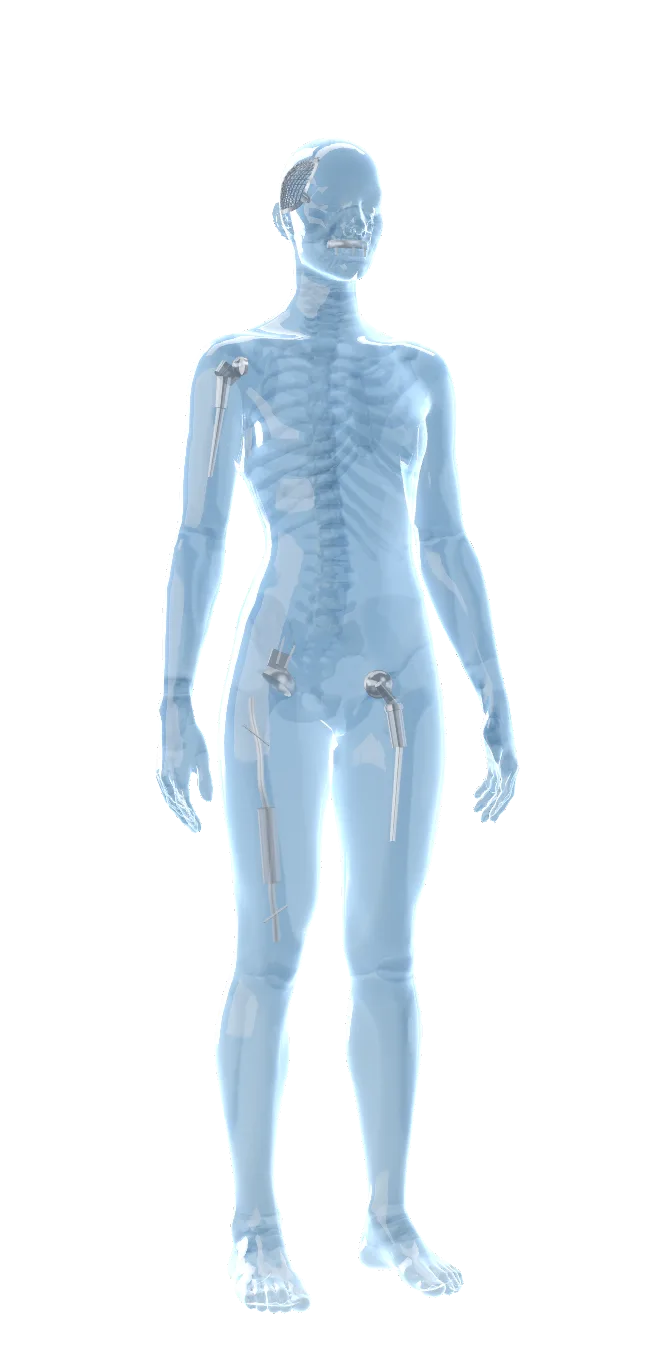
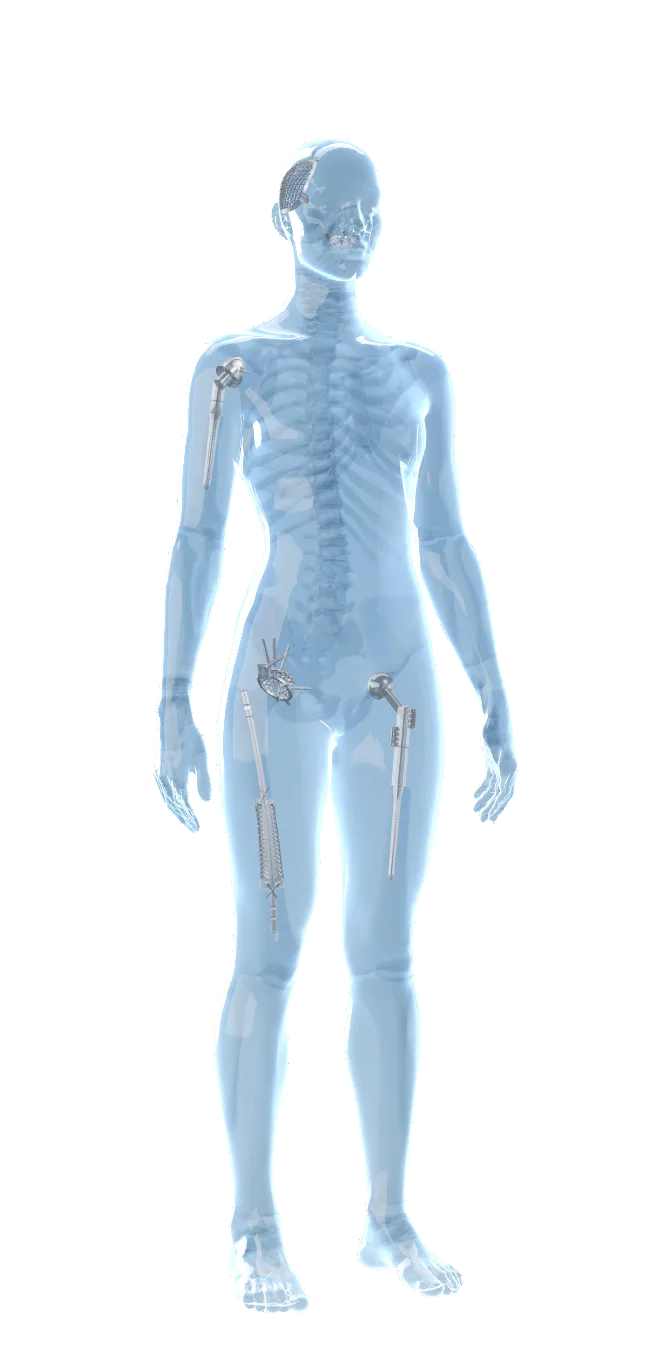
Recapture the full-body fallback and log the implant corrections

diff --git a/docs/landing/BITACORA.md b/docs/landing/BITACORA.md
@@ -226,3 +226,35 @@ Memoria compartida entre las fases de la landing: cada fase deja acá qué hizo,
 - La captura de respaldo `public/img/cuerpo-entero.webp` muestra las primitivas viejas: rehacerla con el procedimiento de la fase 3 (entrada a 1440 × 900, dpr 1,5).
 - Si se quiere el inserto del hombro en blanco o la base de la glenosfera mate, el contrato tendría que admitir más de un acabado por pieza (submallas `_pulido` / `_trabecular`).
 - `CLAUDE.md` sigue desactualizado (fases anteriores) y ahora además: `implantes-recorrido.glb` y `cuerpo.glb` en `public/modelos/`.
+
+---
+
+## Fase 4 · Correcciones del verificador (2026-10-30)
+
+**Commits:** `ae2d21d` Keep the acetabular screws inside the pelvis and perforate the cup face · `1fbd558` Correct the intercalar, endoprosthesis, shoulder and maxillary implants · `14f5c0a` Frame the maxillary stop closer so the implant reads · y el commit de esta entrada (respaldo `cuerpo-entero.webp` y docs).
+
+**Qué se corrigió, en el orden del verificador.**
+1. **Tornillos acetabulares dentro del hueso.** Ya no hay ángulos ni largos fijos: para cada tornillo se busca, en un cono alrededor de su dirección, la que entra más largo sin salir del coxal (puntos cada 2 mm, del lado de adentro de la superficie más cercana con 0,8 mm de margen), de 20 a 55 mm, separados al menos 20° (`buscar_tornillo`, `dentro_del_hueso`). Quedaron ocho en la copa (cuatro hacia el ilíaco y cuatro hacia abajo, al isquion y al pubis, como en la imagen del caso) y uno en el ala. Las vistas `atras` y `frente` ya no muestran tornillos sueltos.
+2. **Clavo al ras del trocánter.** La entrada sale de un rayo desde el canal hacia arriba, donde el clavo sale del hueso (3 mm adentro): 0,887 m. Ya no asoma.
+3. **Maxilar legible.** La toma de la parada en `camara.ts` se cerró (`vis` de 150 a 82 unidades, objetivo centrado en la pieza, azimut −0,42): pasó de cerca del 8 % a cerca del 14 % del ancho de la escena. La placa tiene más cuerpo (eslabones de 2,5 mm de radio y 1,8 mm de espesor, barras de 1,9 mm) y postes de Ø4,2 mm.
+4. **Acetábulo como en la foto.** Además del abanico hacia abajo (punto 1), la cara interna es una media esfera calada con agujeros chicos, sobre la capa trabecular de poros grandes: ya no es lisa ni espejada. El ala se inclina hasta apoyar en el ilíaco.
+5. **Intercalar con la forma del caso.** Se ensancha en los extremos que apoyan en el hueso (16 % el distal, hacia la metáfisis; 8 % el proximal), tiene zonas macizas (cuatro filas en cada extremo y una banda por delante y afuera, la de los alojamientos) y porosas, y el clavo tiene una leve curva anterior (3 mm) y agujeros de bloqueo (uno oblongo y uno redondo arriba, dos abajo). La posición en la diáfisis no cambió.
+6. **Sin rendijas.** El tramo de fémur que se borra es 3 mm más corto de cada lado (el hueso queda adentro de los extremos del intercalar) y el fémur de la endoprótesis se corta 2 mm adentro del suplemento.
+7. **Maxilar:** la punta del borde lateral era el puntal del pilar cigomático apoyado fuera del hueso; el puntal y el final de la cadena se corrieron hacia adelante (de 42 a 35 mm de arco) y la Y bajo la nariz bajó para que no caiga en la apertura nasal.
+8. **Hombro:** vástago más grueso (radio de 7,2 a 5,6 mm a lo largo, antes 5,6 a 4,2), en la proporción de la foto.
+
+**Respaldo sin WebGL.** `public/img/cuerpo-entero.webp` se volvió a capturar con los implantes reales (mismo procedimiento que la fase 3: toma de la entrada a 1440 × 900 y dpr 1,5, todo oculto salvo el canvas, fondo transparente, 440 × 900 centrado al 68 %; `cwebp -q 82 -alpha_q 90`, 32 KB). Comprobado con Chrome sin WebGL: la entrada muestra el cuerpo con los seis implantes.
+
+**Peso y triángulos.** `implantes-recorrido.glb`: 313 KB (195 KB con gzip), unos 40 900 triángulos (antes 46 000): maxilar 3 600, hombro 5 100, acetábulo 12 400, endoprótesis 5 500, intercalar 14 300. `cuerpo.glb`: 902 KB. El recorrido dibuja unos 222 000 triángulos, un 11 % arriba del objetivo de partida (antes un 14 %). Para bajarlo hay que agrandar la celda de las dos celosías o simplificar más el esqueleto. `cabeza.glb` e `implantes.glb` (hero) siguen idénticos byte a byte.
+
+**Comprobado.** Renders de control nuevos en `3d/salida/preview/implantes/` (zonas `maxilar`, `hombro`, `acetabulo`, `femur`, `femur-corte`, `intercalar`, `intercalar-cerca`, `clavo` y `trocanter`, cada una con su `-encima`) y capturas en `navegador/` (`escritorio-*` con WebGL y `sin-*` sin WebGL). Build de producción en el puerto 3100, Chrome con la GPU del M1: las seis paradas bien, sin errores de consola. Build, lint y `tsc` sin errores.
+
+**Decidido sin preguntar.**
+- **Tocar `camara.ts`** (solo la toma del maxilar): el pedido era cerrar el encuadre de esa parada, y la toma vive ahí, no en `implantes.ts`.
+- **Agujeros del clavo como prismas de estadio de una pieza:** con dos cilindros superpuestos para el oblongo, el booleano exacto borraba el clavo entero (quedaba en 0 caras). El script imprime las caras del clavo antes y después para detectarlo.
+- **Un solo tornillo en el ala:** para el segundo no hay hueso en ningún ángulo razonable desde ese agujero (el ilíaco del atlas es fino ahí). El agujero queda libre.
+
+**Pendiente.**
+- El optimizador de imágenes del `next dev` del usuario puede seguir sirviendo el `cuerpo-entero.webp` viejo hasta borrar `.next/dev/cache/images`. No lo borré porque la consigna era no tocar `.next/dev`.
+- El ala acetabular todavía queda un poco separada del hueso en la vista de frente: apoya de canto y no copia la curva del ilíaco.
+- Sigue lo de la entrada anterior: celular real, CAD y medidas con Innercare, y `CLAUDE.md` desactualizado.

diff --git a/docs/ARQUITECTURA_MODELO_3D.md b/docs/ARQUITECTURA_MODELO_3D.md
@@ -13,7 +13,7 @@ Estado al 2026-10-29. El hero muestra el prototipo de cabeza; el cuerpo entero v
   - El vidrio dibuja lo que tiene detrás en un buffer propio con MSAA (`useGlassBuffer` en `materials.tsx`): el de Drei no tiene antialiasing y la malla se dentaba. La resolución arranca en la de la pantalla, hasta 1,5x, y solo baja si faltan cuadros, sin volver a subir. Las tres calidades se ven igual: solo cambian las muestras de la refracción (10, 4 y 3; la media, la de siempre, tenía 6).
   - Para medir: `?medir` en la home muestra cuadros por segundo, triángulos, tiempos y bytes; `?calidad=alta|media|baja` fija el vidrio; `?hueso=0.3`, la opacidad del hueso, y `?fondo` dibuja en el canvas el tramo del degradé que refracta el vidrio (si no coincide con el del CSS, se ve un rectángulo); `?fibras=no` apaga las fibras y `?fibras=1x|2x` fija su resolución (por defecto, 2x en escritorio y 1x en el celular). Es del prototipo: se quita antes del lanzamiento.
 - **Hecho (2026-10-30, fase 3 de la landing):** el cuerpo entero en el recorrido de la home (`#recorrido`, `components/recorrido-3d/`). `npm run modelos` optimiza `salida/anatomia.glb` a `public/modelos/cuerpo.glb` (918 KB, 695 KB transferidos con gzip; unos 177 000 triángulos). La craneoplastía es la real; los otros cinco implantes son primitivas detrás de `components/recorrido-3d/implantes.ts`, cuyo contrato explica cómo reemplazarlas. Detalle en `docs/landing/BITACORA.md`.
-- **Hecho (2026-10-30, fase 4 de la landing):** los otros cinco implantes, generados en `implantes.py` (maxilar, hombro reverso, acetábulo, endoprótesis de fémur e intercalar de fémur), con los huesos que reemplazan recortados. Van en `public/modelos/implantes-recorrido.glb` (304 KB, 188 KB con gzip; unos 46 000 triángulos) y el cuerpo recortado en `cuerpo.glb` (902 KB). El hero no cambia: `cabeza.glb` e `implantes.glb` salen igual que antes (la craneoplastía sola y el esqueleto con el recorte del cráneo). Renders de control en `3d/salida/preview/implantes/`. Detalle y medidas estimadas en `docs/landing/BITACORA.md`.
+- **Hecho (2026-10-30, fase 4 de la landing):** los otros cinco implantes, generados en `implantes.py` (maxilar, hombro reverso, acetábulo, endoprótesis de fémur e intercalar de fémur), con los huesos que reemplazan recortados. Van en `public/modelos/implantes-recorrido.glb` (313 KB, 195 KB con gzip; unos 41 000 triángulos) y el cuerpo recortado en `cuerpo.glb` (902 KB). El hero no cambia: `cabeza.glb` e `implantes.glb` salen igual que antes (la craneoplastía sola y el esqueleto con el recorte del cráneo). Renders de control en `3d/salida/preview/implantes/`. Detalle y medidas estimadas en `docs/landing/BITACORA.md`.
 - **Siguiente:** medir en un celular real el busto del hero y el cuerpo del recorrido (hoy medido solo en escritorio y con emulación de celular). El recorrido tiene la resolución fija (1,5x) y el vidrio en calidad baja en el celular, porque dibuja a demanda y no puede medir los cuadros solo. Ese día, con el build de producción en la red local y `?medir`, comparar `?fibras=no|1x|2x` y `?calidad=alta|media|baja`, y ajustar la calidad por defecto, la transmisión, la opacidad del hueso y la resolución de las fibras en el celular (hoy 1x por precaución). Para abrirlo desde el teléfono, el firewall de macOS tiene que dejar entrar conexiones a Node.
 - **Del esqueleto, a revisar con el material de vidrio:**
   - El cráneo queda algo bajo dentro de la cabeza, porque la del maniquí es más alta que la del atlas: entra escalado por eje (0,98 × 1,05 × 0,86).
